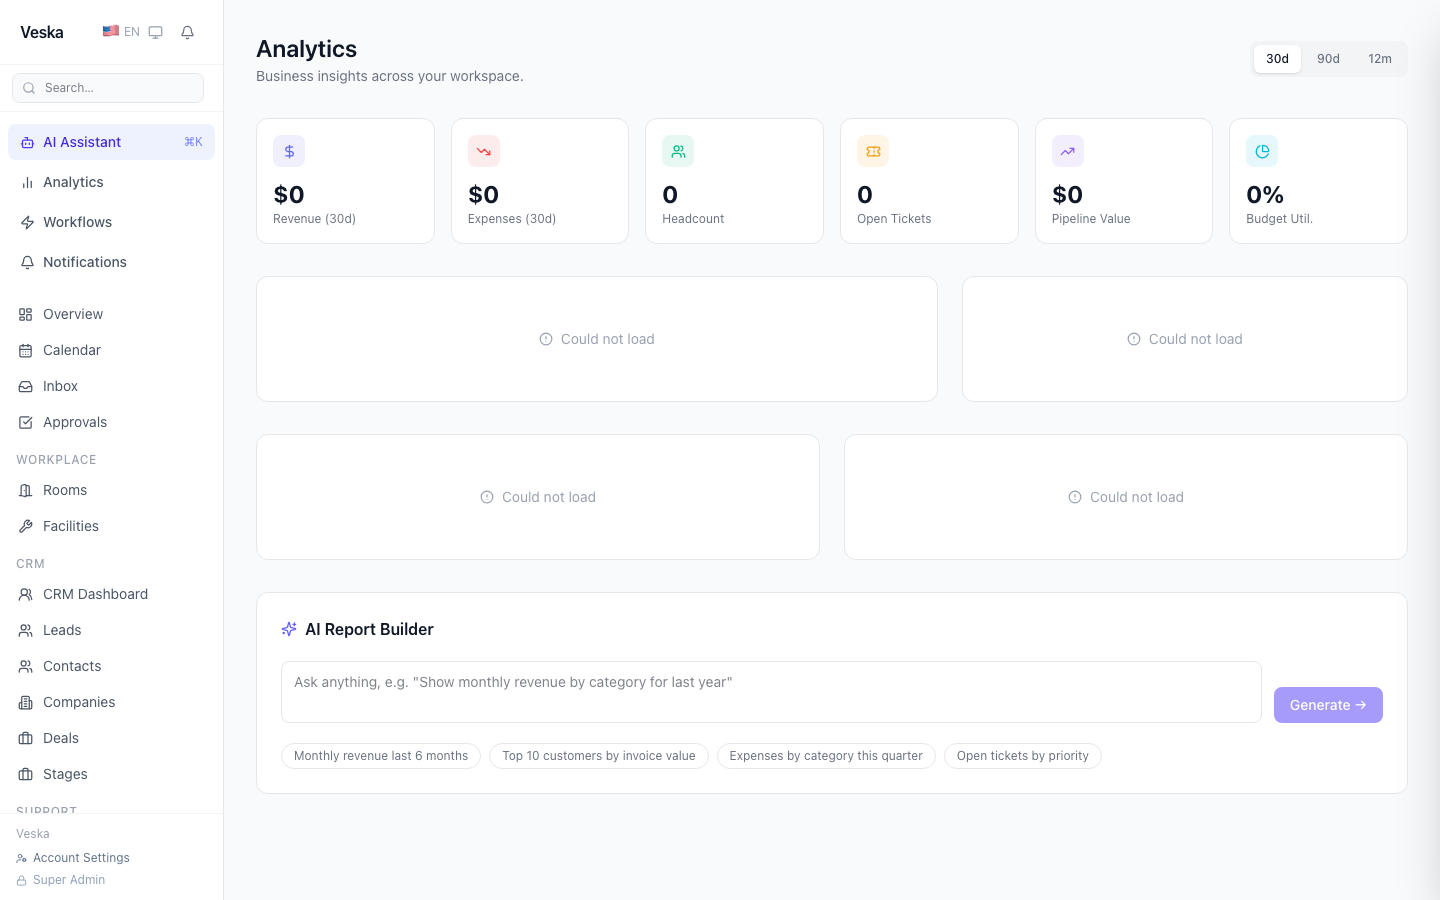
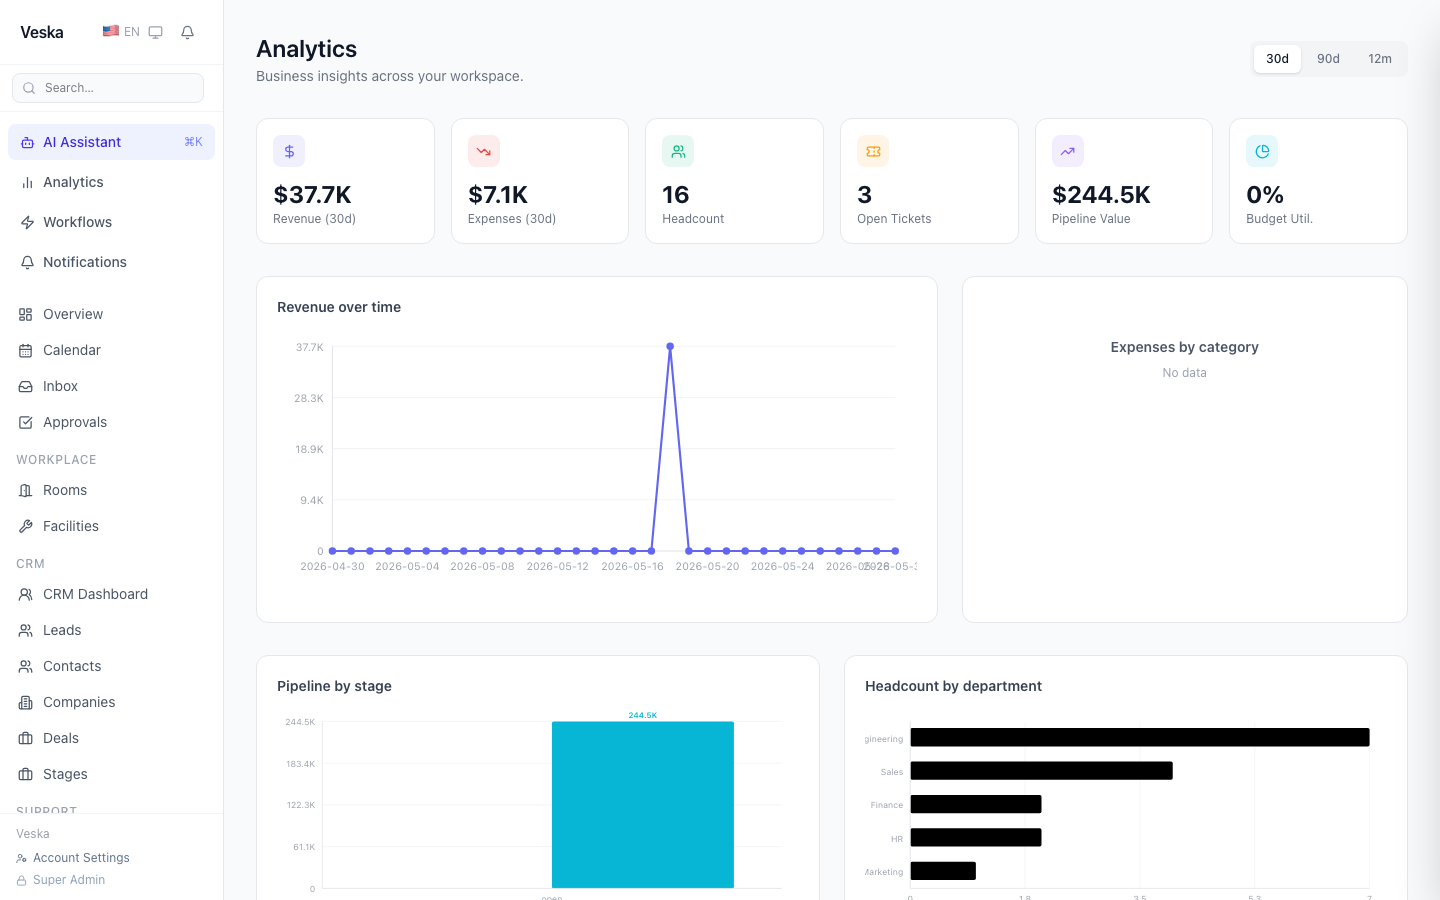
docs: refresh screenshots — analytics charts now live, inbox + LMS + KB
Analytics: RBAC session fix makes revenue/pipeline/headcount charts
render with real data ($37.7K revenue, $244.5K pipeline, 16 headcount)

New screenshots added:
- screenshot-analytics.png: revenue chart, pipeline by stage, headcount
- screenshot-inbox.png: AI conversation hub with channel filter tabs
- screenshot-lms.png: Learning Management with stats + Courses/Enrollments
- screenshot-kb.png: Knowledge Base with category sidebar + article list

README grid updated to highlight Analytics and CRM alongside the new
channels config, workflows, developer portal, and settings pages.

diff --git a/apps/admin/e2e/take-screenshots.spec.ts b/apps/admin/e2e/take-screenshots.spec.ts
@@ -14,16 +14,16 @@ const OUT_DIR = path.join(__dirname, '../../../docs/images');
 
 async function seedCookies(ctx: BrowserContext) {
   await ctx.addCookies([
-    { name: 'veska_session',        value: SESSION_TOKEN, domain: 'localhost', path: '/' },
-    { name: 'veska_tenant',         value: TENANT_ID,     domain: 'localhost', path: '/' },
-    { name: 'veska_identity',       value: IDENTITY_ID,   domain: 'localhost', path: '/' },
-    { name: 'veska_onboarding_done',value: 'true',        domain: 'localhost', path: '/' },
+    { name: 'veska_session',         value: SESSION_TOKEN, domain: 'localhost', path: '/' },
+    { name: 'veska_tenant',          value: TENANT_ID,     domain: 'localhost', path: '/' },
+    { name: 'veska_identity',        value: IDENTITY_ID,   domain: 'localhost', path: '/' },
+    { name: 'veska_onboarding_done', value: 'true',        domain: 'localhost', path: '/' },
   ]);
 }
 
 async function shot(page: Page, route: string, filename: string) {
   await page.goto(`${BASE}${route}`, { waitUntil: 'load', timeout: 25000 });
-  await page.waitForTimeout(1800);
+  await page.waitForTimeout(2000);
   await page.screenshot({ path: path.join(OUT_DIR, filename), fullPage: false });
   console.log(`✓ ${filename}`);
 }
@@ -31,16 +31,16 @@ async function shot(page: Page, route: string, filename: string) {
 test('capture all screenshots', async ({ browser }) => {
   fs.mkdirSync(OUT_DIR, { recursive: true });
 
-  // Login page (no auth)
+  // Login (no auth)
   const loginCtx = await browser.newContext({ viewport: { width: 1440, height: 900 } });
-  const loginPage = await loginCtx.newPage();
-  await loginPage.goto(`${BASE}/login`, { waitUntil: 'load', timeout: 20000 });
-  await loginPage.waitForTimeout(1000);
-  await loginPage.screenshot({ path: path.join(OUT_DIR, 'screenshot-login.png') });
+  const lp = await loginCtx.newPage();
+  await lp.goto(`${BASE}/login`, { waitUntil: 'load', timeout: 20000 });
+  await lp.waitForTimeout(1000);
+  await lp.screenshot({ path: path.join(OUT_DIR, 'screenshot-login.png') });
   console.log('✓ screenshot-login.png');
   await loginCtx.close();
 
-  // Authenticated pages
+  // Authenticated
   const ctx = await browser.newContext({ viewport: { width: 1440, height: 900 } });
   const page = await ctx.newPage();
   await page.goto(BASE, { waitUntil: 'domcontentloaded' });
@@ -49,14 +49,17 @@ test('capture all screenshots', async ({ browser }) => {
   await shot(page, '/dashboard',                  'screenshot-dashboard.png');
   await shot(page, '/dashboard/crm',              'screenshot-crm.png');
   await shot(page, '/dashboard/support',          'screenshot-support.png');
+  await shot(page, '/dashboard/inbox',            'screenshot-inbox.png');
   await shot(page, '/dashboard/approvals',        'screenshot-approvals.png');
+  await shot(page, '/dashboard/analytics',        'screenshot-analytics.png');
   await shot(page, '/dashboard/finance/invoices', 'screenshot-invoices.png');
   await shot(page, '/dashboard/hr',               'screenshot-hr.png');
+  await shot(page, '/dashboard/lms',              'screenshot-lms.png');
+  await shot(page, '/dashboard/kb',               'screenshot-kb.png');
   await shot(page, '/dashboard/channels',         'screenshot-channels.png');
   await shot(page, '/dashboard/developer',        'screenshot-developer.png');
   await shot(page, '/dashboard/workflows',        'screenshot-workflows.png');
   await shot(page, '/dashboard/settings',         'screenshot-settings.png');
-  await shot(page, '/dashboard/analytics',        'screenshot-analytics.png');
   await shot(page, '/dashboard/reports',          'screenshot-reports.png');
 
   await ctx.close();

diff --git a/README.md b/README.md
@@ -26,35 +26,35 @@ Once configured, almost nobody logs in. Employees, customers, and vendors intera
 <table>
   <tr>
     <td><img src="docs/images/screenshot-dashboard.png" alt="Dashboard" /></td>
-    <td><img src="docs/images/screenshot-crm.png" alt="CRM" /></td>
+    <td><img src="docs/images/screenshot-analytics.png" alt="Analytics" /></td>
   </tr>
   <tr>
     <td align="center"><em>Dashboard — live KPIs across finance, HR &amp; ops</em></td>
-    <td align="center"><em>CRM — 8 contacts, 12 deals, $564K pipeline</em></td>
+    <td align="center"><em>Analytics — revenue chart, pipeline, headcount by dept</em></td>
   </tr>
   <tr>
+    <td><img src="docs/images/screenshot-crm.png" alt="CRM" /></td>
     <td><img src="docs/images/screenshot-support.png" alt="Support inbox" /></td>
+  </tr>
+  <tr>
+    <td align="center"><em>CRM — contacts, deals pipeline &amp; $564K in open deals</em></td>
+    <td align="center"><em>Support — ticket inbox with channel badges &amp; thread view</em></td>
+  </tr>
+  <tr>
     <td><img src="docs/images/screenshot-channels.png" alt="Channels" /></td>
-  </tr>
-  <tr>
-    <td align="center"><em>Support inbox — tickets from Slack, Email &amp; WhatsApp</em></td>
-    <td align="center"><em>Channels — connect Slack, Email, WhatsApp &amp; Telegram</em></td>
-  </tr>
-  <tr>
     <td><img src="docs/images/screenshot-workflows.png" alt="Workflows" /></td>
-    <td><img src="docs/images/screenshot-developer.png" alt="Developer portal" /></td>
   </tr>
   <tr>
+    <td align="center"><em>Channels — connect Slack, Email, WhatsApp &amp; Telegram</em></td>
     <td align="center"><em>Workflows — AI-powered automation builder</em></td>
-    <td align="center"><em>Developer portal — API keys, webhooks &amp; job queues</em></td>
   </tr>
   <tr>
+    <td><img src="docs/images/screenshot-developer.png" alt="Developer portal" /></td>
     <td><img src="docs/images/screenshot-settings.png" alt="Settings" /></td>
-    <td><img src="docs/images/screenshot-login.png" alt="Login" /></td>
   </tr>
   <tr>
+    <td align="center"><em>Developer portal — API keys, webhooks &amp; job queues</em></td>
     <td align="center"><em>Settings — company profile, roles &amp; integrations</em></td>
-    <td align="center"><em>Login — password, magic link &amp; SSO</em></td>
   </tr>
 </table>
 
